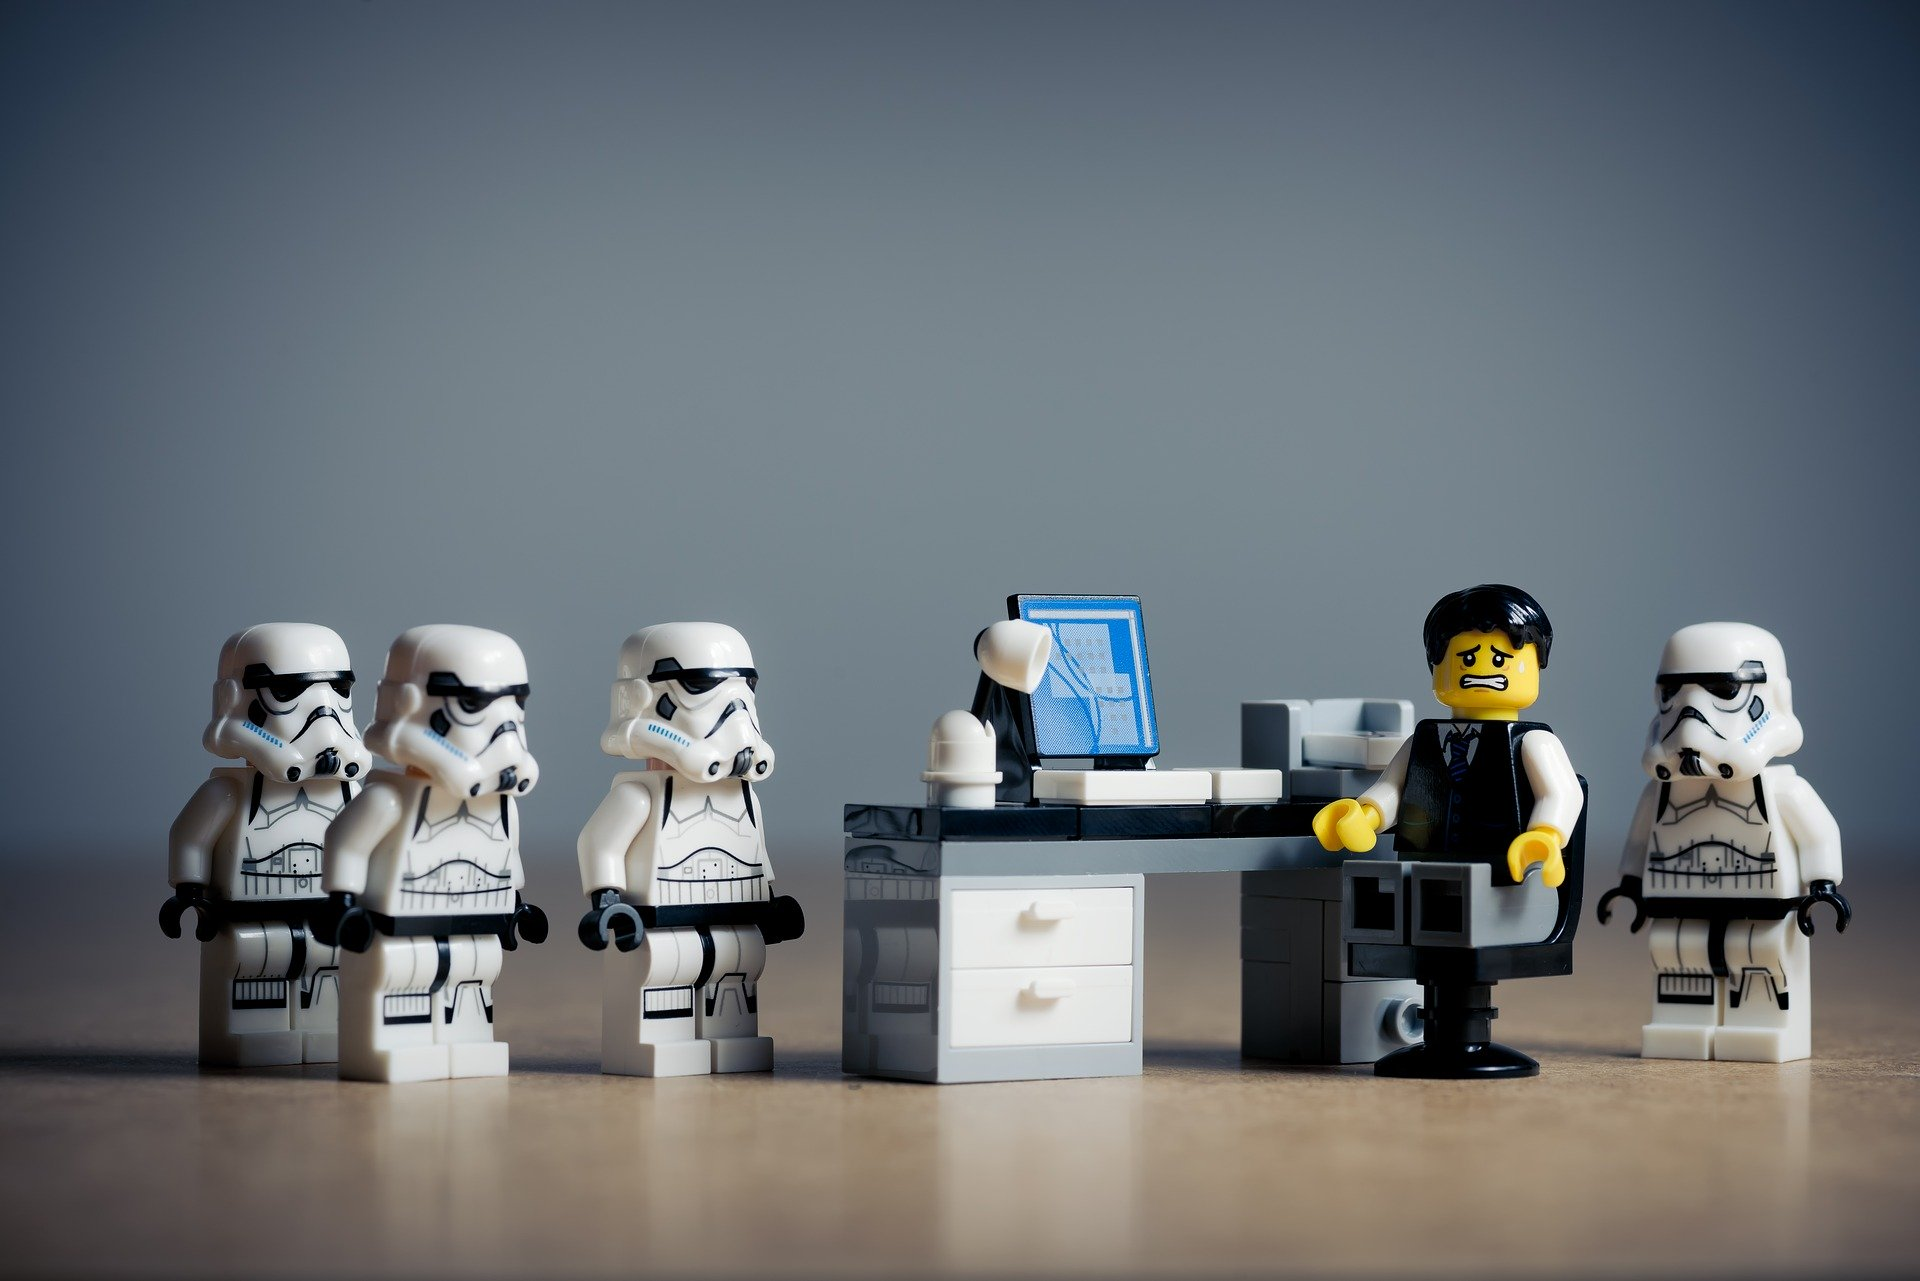
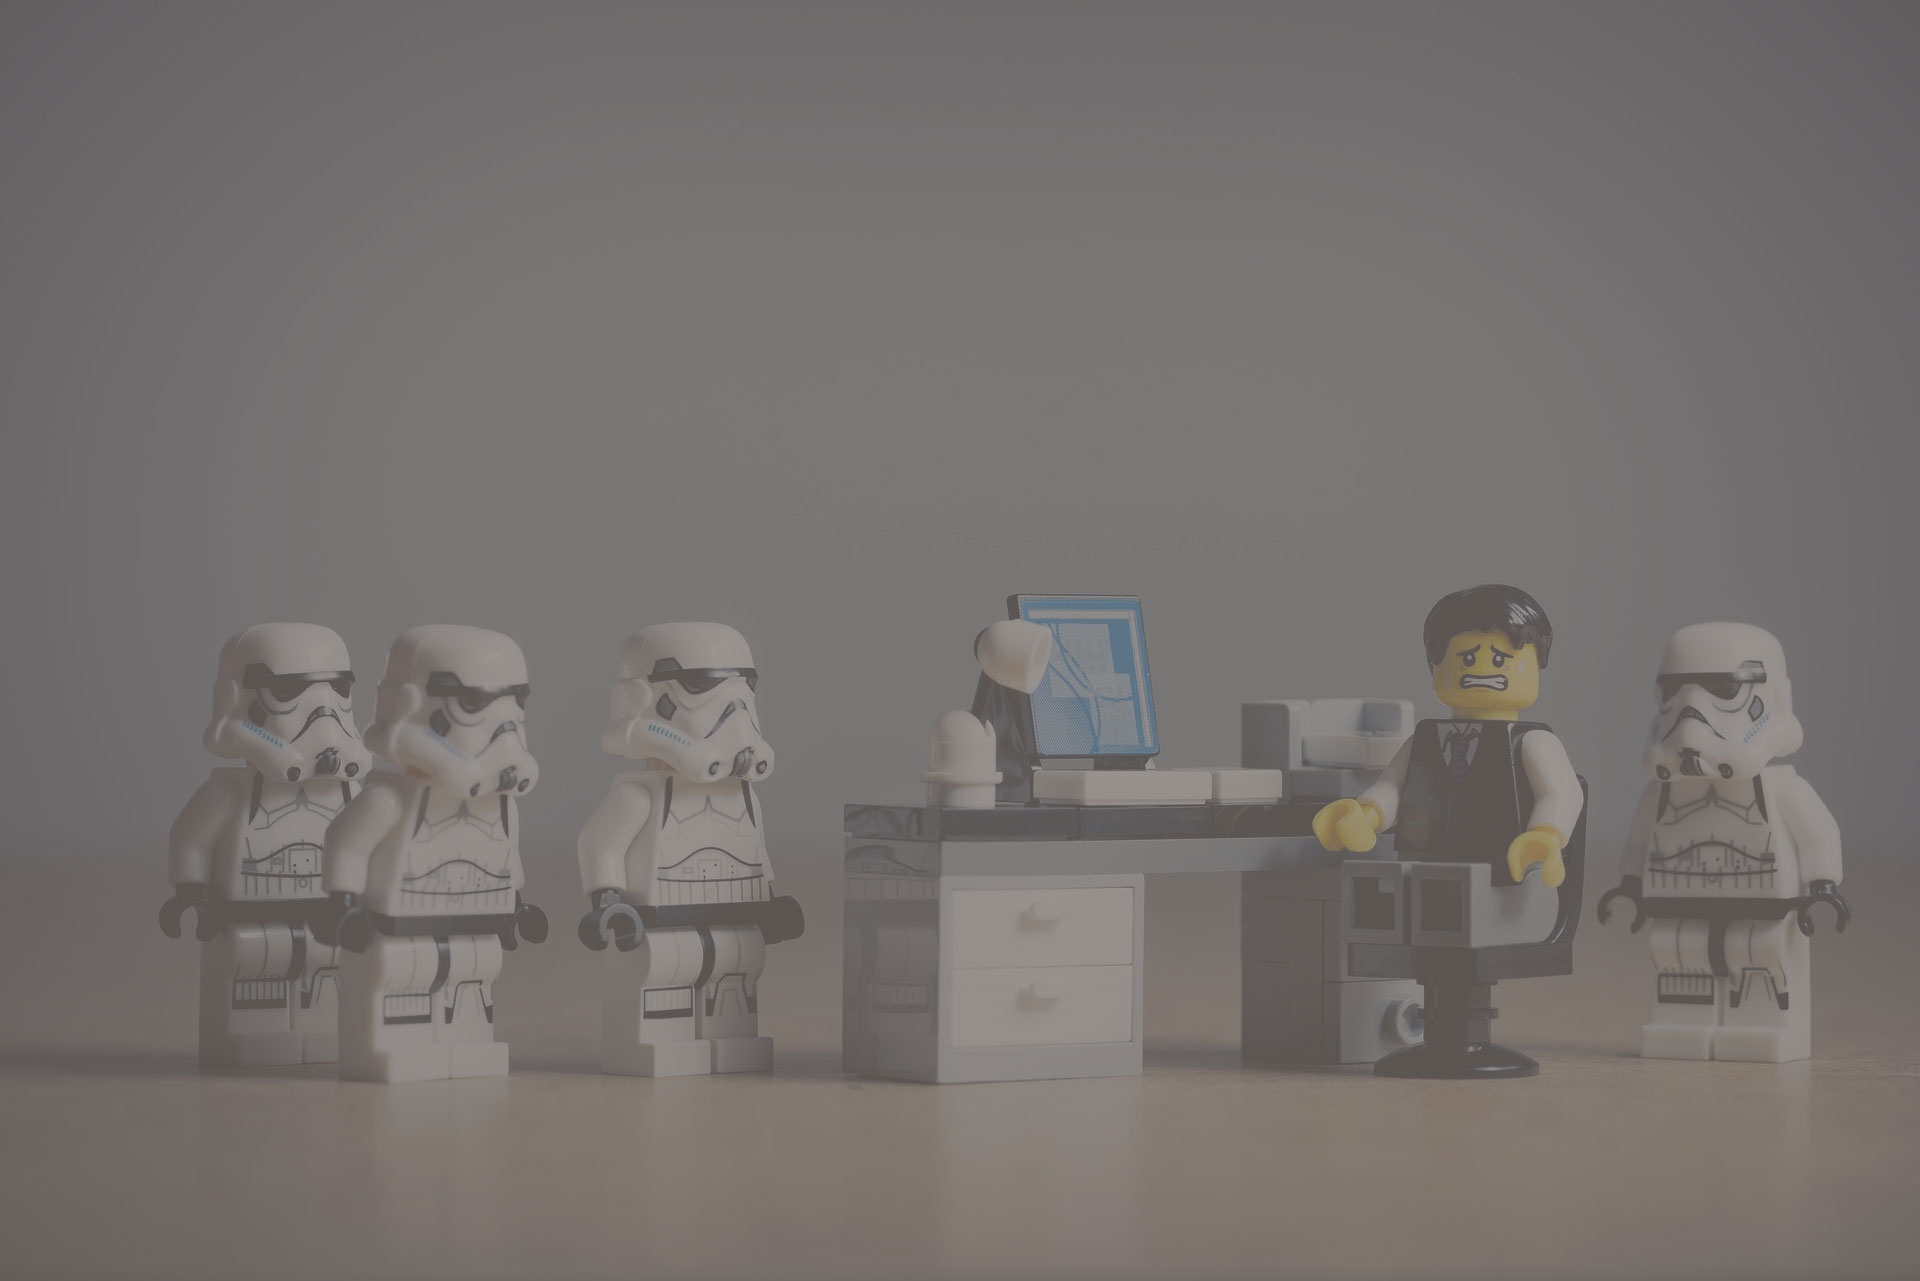
Week 8

diff --git a/ems/app.js b/ems/app.js
@@ -59,10 +59,10 @@ app.use(
 );
 app.use(cookieParser());
 app.use(csrfProtection);
-app.use(function (request, response, next) {
-  var token = request.csrfToken();
-  response.cookie("XSRF-TOKEN", token);
-  response.locals.csrfToken = token;
+app.use(function (req, res, next) {
+  var token = req.csrfToken();
+  res.cookie("XSRF-TOKEN", token);
+  res.locals.csrfToken = token;
   next();
 });
 
@@ -79,15 +79,41 @@ app.get("/new", function (req, res) {
   });
 });
 
-app.post("/process", function (request, response) {
-  console.log(request.body.txtName);
-  response.redirect("/");
+app.get("/list", function (req, res) {
+  Employee.find({}, function (error, employees) {
+    if (error) throw error;
+
+    res.render("list", {
+      title: "Employee List",
+      employees: employees,
+    });
+  });
 });
 
-//model
-var employee = new Employee({
-  firstName: "Dan",
-  lastName: "Ross",
+
+app.post("/process", function (req, res) {
+  // console.log(req.body.first);
+  if (!req.body.first || !req.body.last) {
+    res.status(400).send("Entries must have a name");
+    return;
+  }
+  //get the request forms data
+  var firstName = req.body.first;
+  var lastName = req.body.last;
+  console.log(firstName + lastName);
+
+  //model
+  var employee = new Employee({
+    firstName: firstName,
+    lastName: lastName,
+  });
+
+  //save
+  employee.save(function (error) {
+    if (error) throw error;
+    console.log(firstName + " " + lastName + " saved successfully");
+  });
+  res.redirect("/");
 });
 
 // create/start Node server

diff --git a/ems/public/css/styles.css b/ems/public/css/styles.css
@@ -25,7 +25,7 @@ body {
   display: flex;
   color: #fff;
   text-shadow: 0 0.05rem 0.1rem rgba(0, 0, 0, 0.5);
-  box-shadow: inset 0 0 5rem rgba(0, 0, 0, 0.5);
+  /* box-shadow: inset 0 0 5rem rgba(0, 0, 0, 0.5); */
   background: url(/images/office-2539844_1920.jpg) no-repeat center center/cover;
 }
 
